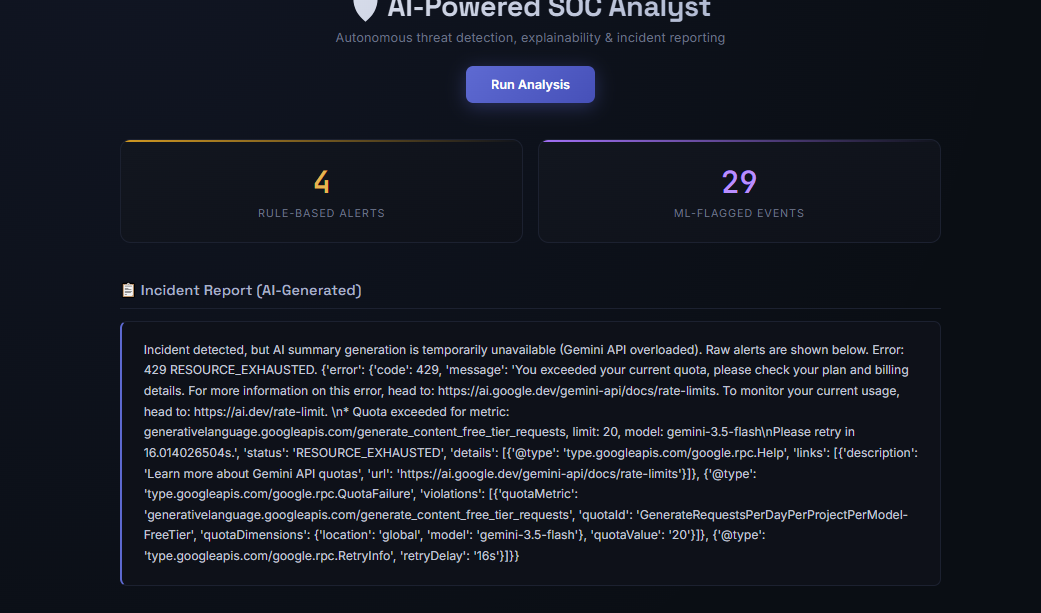
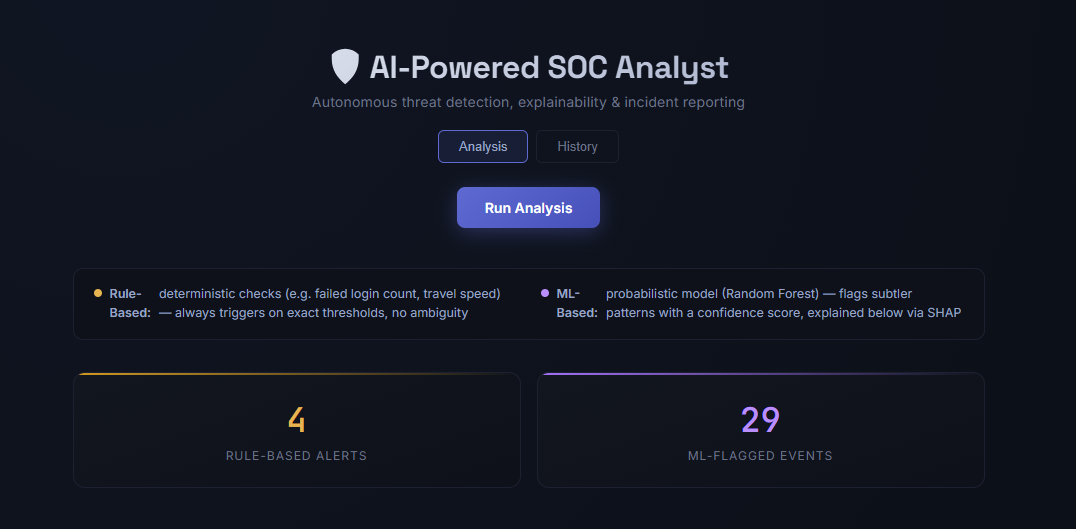
docs: refresh screenshots to reflect current UI (history view, SHAP indicators)

diff --git a/README.md b/README.md
@@ -157,7 +157,18 @@ The rule-based baseline has decent precision but catches almost no real attacks 
 <img src="docs/screenshots/results.png" width="800" alt="Dashboard with analysis results" />
 
 ### MITRE ATT&CK Mapped Alerts
-<img src="docs/screenshots/alerts.png" width="800" alt="MITRE ATT&CK alerts table" />
+
+<img src="docs/screenshots/alert.png" width="800" alt="MITRE ATT&CK alerts table" />
+
+### Explainable AI — SHAP Factor Direction
+
+<img src="docs/screenshots/shap-explainability.png" width="800" alt="SHAP explainability showing risk-increasing and risk-decreasing factors" />
+
+### Incident History
+
+<img src="docs/screenshots/history-view.png" width="800" alt="Past incidents history view" />
+
+</div>
 
 </div>
 